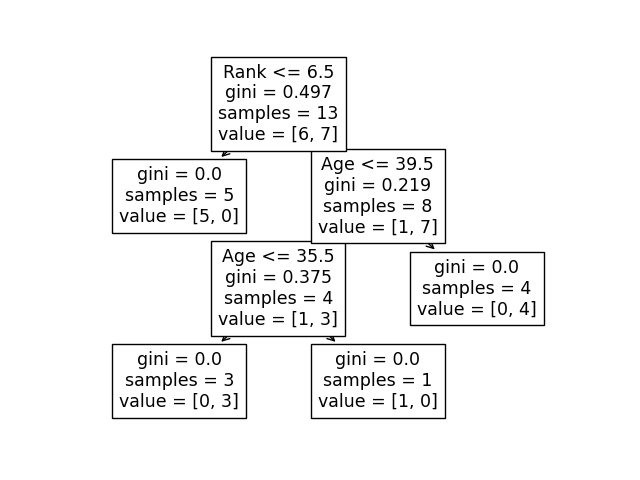
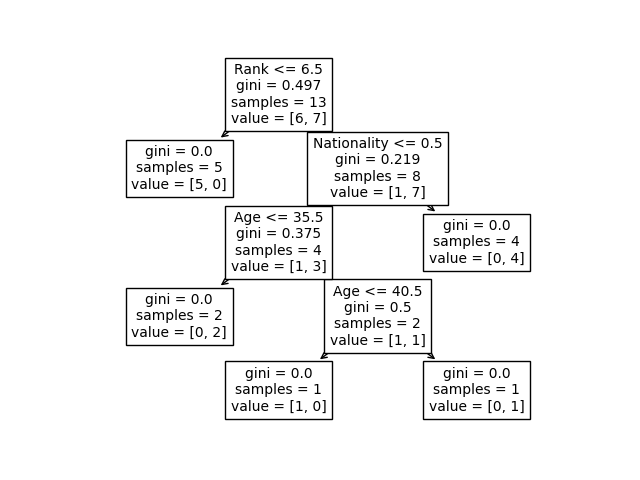
hytgf

Changed region(s): [[0.1562, 0.0938, 0.875, 0.875]]

diff --git a/Semester_2/SimCorp_stuff/Templates/DecTree.html b/Semester_2/SimCorp_stuff/Templates/DecTree.html
@@ -95,7 +95,23 @@
                 <p> {{ rule1 }} </p>
                 <br>
                 <p> {{ rule2 }} </p>
-                <br><br><br><br><br><br><br><br>
+                <br>
+                <label> Lav prediction: </label>
+                <br>
+                <form class="w-100 me-3"  method="post">
+                  <label> Age: </label> <input type="number" name="Age" max="100" min="0" required> 
+                  <br>
+                  <label> Experience: </label> <input type="number" name="Experience" max="100" min="0" required> 
+                  <br>
+                  <label> Rank: </label> <input type="number" name="Rank" max="100" min="0" required> 
+                  <br>
+                  <label> Nationality: </label> <input type="number" name="Nationality" max="100" min="0" required> 
+                  <br>
+                  <button type = "submit"> predict </button>
+                </form>
+                <br>
+                <label> Result: </label> <p> {{ result }}</p>
+                <br><br><br><br><br>
               </div>
               <div align = "center" class="bg-light border rounded-3">
                 <table class ="table2" id="myTable">

diff --git a/Semester_2/SimCorp_stuff/flaskApp.py b/Semester_2/SimCorp_stuff/flaskApp.py
@@ -38,7 +38,11 @@ def TreeExample():
         templist.append(list(df["Go"])[i])
         data.append(templist)
 
-    return data
+    resultater = []
+    resultater.append(data)
+    resultater.append(dtree)
+
+    return resultater
 
 
 
@@ -84,15 +88,25 @@ def LinearRegEx():
 @app.route('/DecTreeExample', methods=['GET', 'POST'])
 def DecTreesEx():
     HeadLine = "Decision Tree"
-    data = TreeExample()
+    datastuff = TreeExample()
+    data = datastuff[0]
+    dtree = datastuff[1]
     rule1 = "convert the values 'UK' to 0, 'USA' to 1, and 'N' to 2"
     rule2 = "convert the values 'YES' to 1, 'NO' to 0"
     Problem = "Beslut om der skal ses komedie show baseret på skuepillers karakteristik"
+    
 
     if request.method == 'POST':
+        print("test")
         SearchWord = request.form['searchbar']
+        Age = int(request.form['Age'])
+        Experience = int(request.form['Experience'])
+        Rank = int(request.form['Rank'])
+        Nationality = int(request.form['Nationality'])
+        print("test")
+        Resultat = dtree.predict([[Age, Experience, Rank, Nationality]])
         
-        return render_template('DecTree.html', Headline = HeadLine, Search = SearchWord, rule1=rule1, rule2=rule2, Data = data, problem = Problem)
+        return render_template('DecTree.html', Headline = HeadLine, Search = SearchWord, rule1=rule1, rule2=rule2, Data = data, problem = Problem, result = Resultat)
 
 
     
